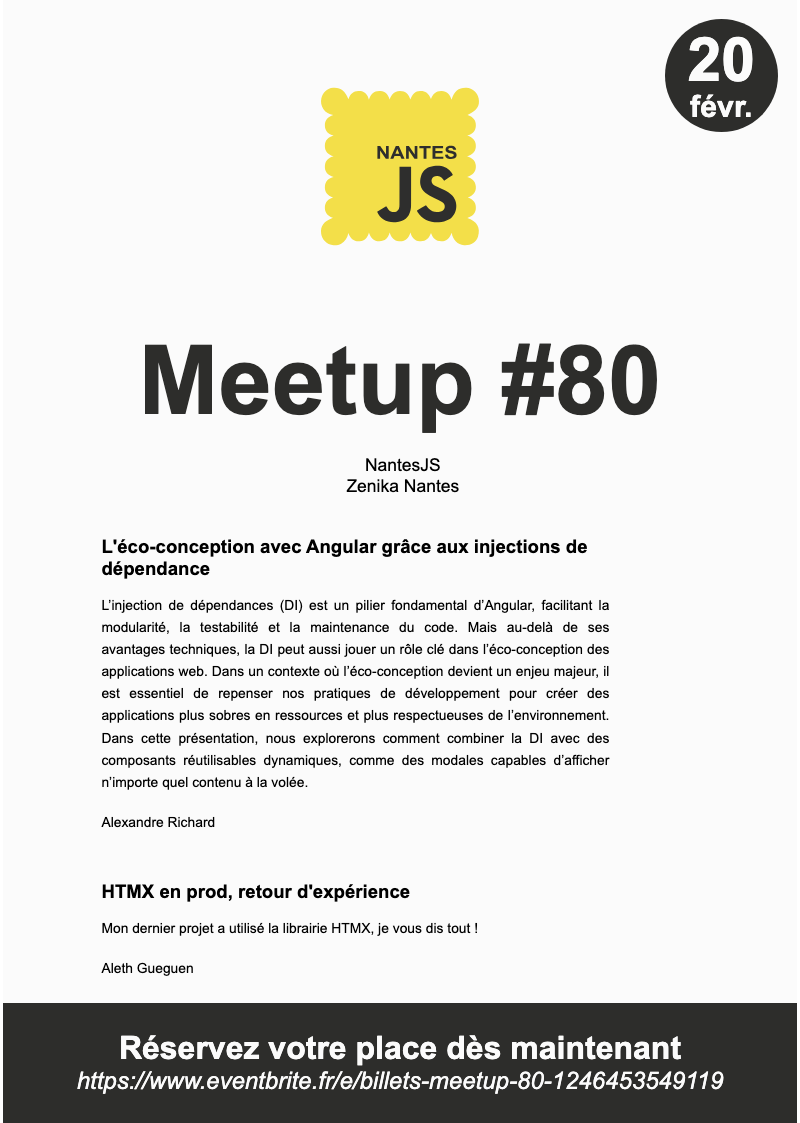
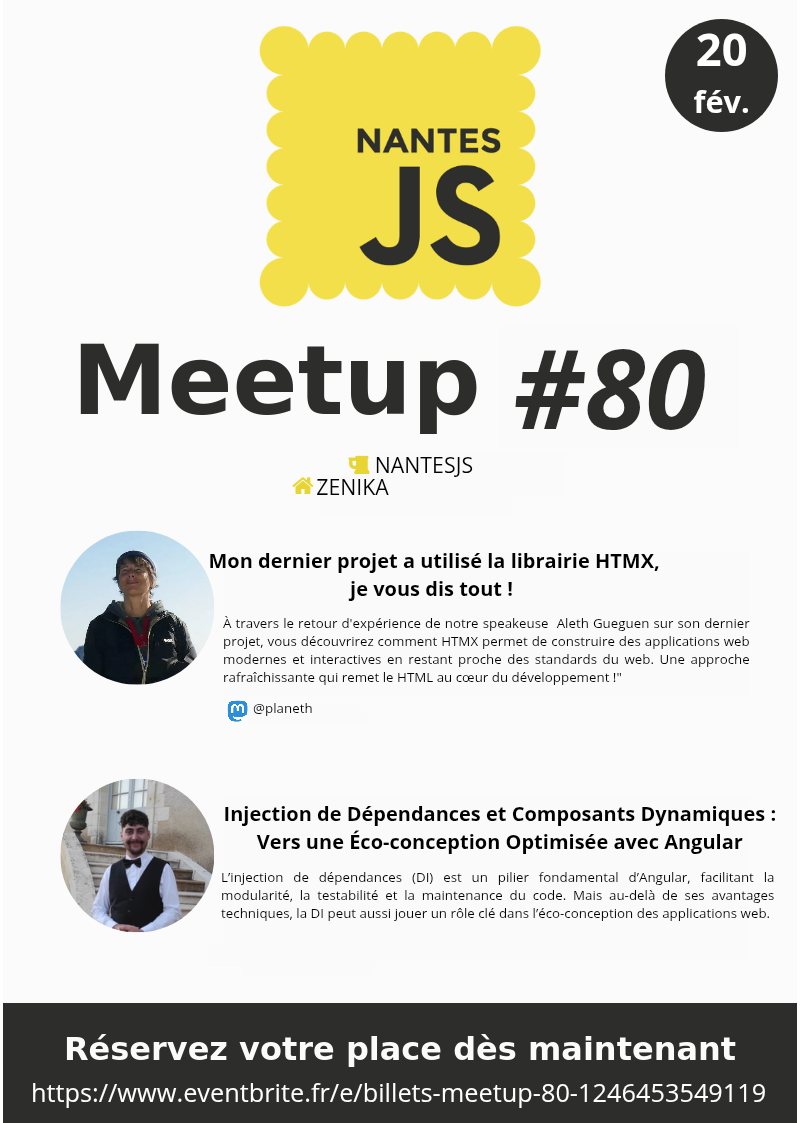
Add images for meetup 80 (#256)

diff --git a/datas/meetups/meetup-80.md b/datas/meetups/meetup-80.md
@@ -35,7 +35,7 @@ L’impact de ces techniques sur la performance, la consommation des ressources 
       -
           id: 121ECB7B-793A-4BDC-BA6C-DC35C2A8BB29
           name: 'Alexandre Richard'
-          image: 'https://lh3.googleusercontent.com/a/ACg8ocL2YcYGWmbH45E3Dc2YWYoEM7ZwQbtQVd8DauCDk6lOqnxFKBOI=s96-c'
+          image: '/images/speaker1.jpg'
   -
     id: '508986f3-97b6-4b75-9769-f469db1e6e38'
     title: "HTMX en prod, retour d'expérience"
@@ -45,4 +45,4 @@ L’impact de ces techniques sur la performance, la consommation des ressources 
           id: '5BD2226A-F275-4F52-978F-16E8745283CB'
           name: 'Aleth Gueguen'
           link: 'pl4n3th'
-          image: 'https://avatars0.githubusercontent.com/u/6920364?v=4'
+          image: '/images/speaker2.jpg'
